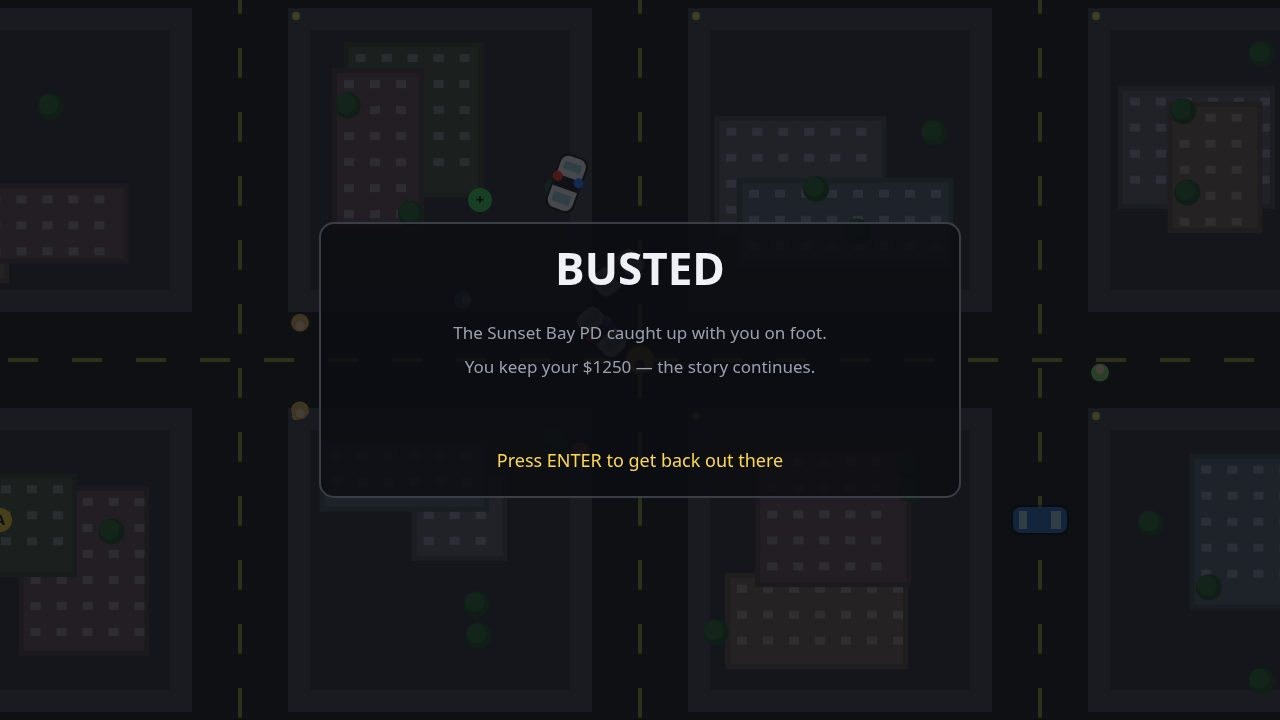
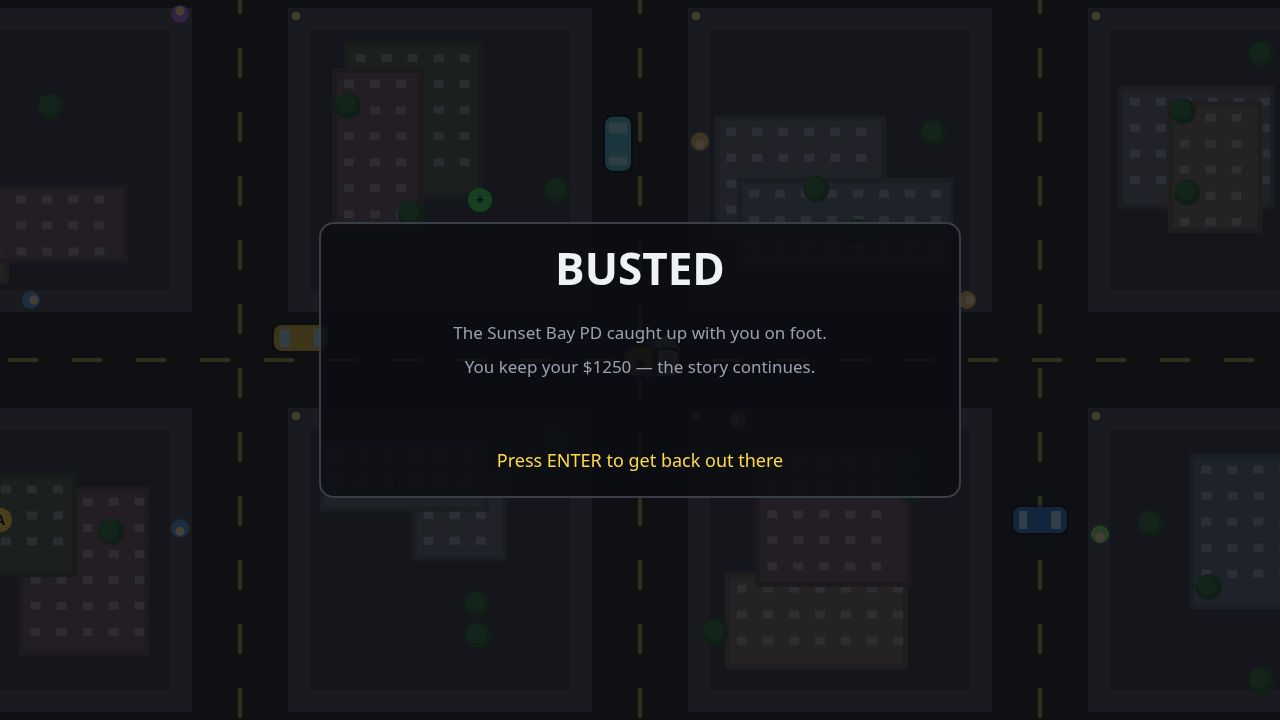
Sunset Bay: rebuild original top-down 2D open-world crime game for gta6-01 (second fresh recording)
All 10 non-starter files rewritten fresh in-session under recording
01a1ea35, screenshots retaken. Same 5-mission story and systems; one fix
from playtesting: police cruisers now brake to a crawl closing in on a
player on foot, so BUSTED is reachable through the real rules (before, a
cruiser blasted through the bust radius in a frame and orbited forever).

diff --git a/game/src/world.js b/game/src/world.js
@@ -167,9 +167,7 @@ export function createWorld(seed) {
         ? ROAD_X[Math.floor(random() * ROAD_X.length)]
         : ROAD_Y[Math.floor(random() * ROAD_Y.length)];
       const dir = random() < 0.5 ? 1 : -1;
-      const along = vertical
-        ? 240 + random() * 1900
-        : 240 + random() * 1900;
+      const along = 240 + random() * 1900;
       state.traffic.push({
         x: vertical ? line + dir * 22 : along,
         y: vertical ? along : line + dir * 22,
@@ -224,6 +222,9 @@ export function createWorld(seed) {
   function startMission(index) {
     if (index >= MISSIONS.length) return;
     const mission = MISSIONS[index];
+    // grab-and-go missions start in the "grab" phase; everything else in "go".
+    // (This phase matters: without it the final mission would complete the moment
+    // it started, because the hideout check would run before the grab.)
     state.missionPhase = mission.kind === 'grab-and-go' ? 'grab' : 'go';
     state.dialogue = { text: mission.briefing, t: 7 };
     if (mission.wantedOnStart) {
@@ -432,6 +433,13 @@ export function createWorld(seed) {
       const target = angleTo(cop.x, cop.y, p.x, p.y);
       cop.angle = turnToward(cop.angle, target, 3.4 * dt);
       cop.speed = Math.min(CAR.policeMaxSpeed, cop.speed + 420 * dt);
+      // A cruiser closing in on a player on foot brakes to a crawl: at full speed
+      // it would blast through the bust radius in a frame or two and orbit forever
+      // without ever catching anyone. At 90 it stays inside the radius long enough
+      // for the bust timer to fill. (Ramming a car is unaffected.)
+      if (!p.inCar && dist(cop.x, cop.y, p.x, p.y) < 140) {
+        cop.speed = Math.min(cop.speed, 90);
+      }
       cop.x += Math.cos(cop.angle) * cop.speed * dt;
       cop.y += Math.sin(cop.angle) * cop.speed * dt;
       cop.x = clamp(cop.x, 60, WORLD.width - 60);
@@ -483,7 +491,6 @@ export function createWorld(seed) {
   }
 
   function stepBullets(dt) {
-    let events = 0;
     for (const b of state.bullets) {
       b.x += b.vx * dt;
       b.y += b.vy * dt;
@@ -533,7 +540,6 @@ export function createWorld(seed) {
       b.dead = dead;
     }
     state.bullets = state.bullets.filter((b) => !b.dead);
-    return events;
   }
 
   function stepPickups(dt) {
@@ -560,7 +566,6 @@ export function createWorld(seed) {
     if (state.missionIndex >= MISSIONS.length || state.endKind) return 0;
     const mission = MISSIONS[state.missionIndex];
     const p = state.player;
-    const marker = missionMarker();
     if (mission.kind === 'drive-to') {
       if (p.inCar && dist(p.x, p.y, mission.marker.x, mission.marker.y) < 120) return completeMission();
     } else if (mission.kind === 'pickup') {
@@ -612,7 +617,7 @@ export function createWorld(seed) {
       events |= stepPolice(dt);
       if (state.endKind) return events;
       stepRivals(dt);
-      events |= stepBullets(dt);
+      stepBullets(dt);
       events |= stepPickups(dt);
 
       const move = input?.move ?? { x: 0, y: 0 };

diff --git a/game/src/config.js b/game/src/config.js
@@ -1,12 +1,13 @@
 // Sunset Bay — an original top-down 2D open-world crime game.
-// All tuning numbers, colours and the story in one place. The world is a fixed-size
-// city (3200x2400); the camera follows the player and the renderer scales to the window.
+// One place for every tuning number, colour and story beat. The city is a fixed
+// 3200x2400 map; the camera follows the player and the renderer scales the view
+// to whatever window it runs in.
 export const WORLD = { width: 3200, height: 2400 };
 export const VIEW = { width: 1280, height: 720 };
 export const STEP = 1 / 60;
 
-// Road grid: roads are centred on these lines, ROAD_W wide. Blocks sit between them.
-// The bay runs along the south edge, below BAY_Y.
+// Roads are centred on these lines and ROAD_W wide; blocks fill the gaps between
+// them. The bay sits along the south edge, below BAY_Y.
 export const ROAD_W = 96;
 export const ROAD_X = [200, 600, 1000, 1400, 1800, 2200, 2600, 3000];
 export const ROAD_Y = [200, 600, 1000, 1400, 1800, 2200];
@@ -45,7 +46,7 @@ export const BUST_TIME = 0.6;
 
 export const SAVE_KEY = 'sunset-bay.save.v1';
 
-// Story: five missions, each a waypoint objective with dialogue and a cash payout.
+// The story: five missions, each a waypoint objective with dialogue and a payout.
 export const MISSIONS = [
   {
     id: 0, title: 'Wheels Up', payout: 500,

diff --git a/game/src/audio.js b/game/src/audio.js
@@ -1,7 +1,8 @@
-// All sound is synthesized with WebAudio: no audio files, no network. The engine is
-// a low oscillator whose pitch follows driving speed, the siren is two alternating
-// tones, and the rest are short envelopes. Everything is guarded: if the browser
-// blocks audio until a gesture, the sounds simply start after the first key press.
+// Every sound is synthesized with WebAudio — no audio files, no network. The
+// engine is a low oscillator whose pitch follows driving speed, the siren is two
+// alternating tones, and the rest are short envelopes. All of it is guarded: if
+// the browser blocks audio until a gesture, sounds simply start after the first
+// key press, and nothing here can ever break the game.
 export function createAudio() {
   let context = null;
   let master = null;
@@ -10,7 +11,6 @@ export function createAudio() {
   let engineGain = null;
   let sirenTimer = 0;
   let sirenHigh = false;
-  let sirenOn = false;
 
   function ensure() {
     if (context) return true;
@@ -153,11 +153,8 @@ export function createAudio() {
         if (sirenTimer <= 0) {
           sirenTimer = 0.42;
           sirenHigh = !sirenHigh;
-          sirenOn = true;
           tone(sirenHigh ? 880 : 660, 0.4, 'sine', 0.07);
         }
-      } else {
-        sirenOn = false;
       }
     },
   };
